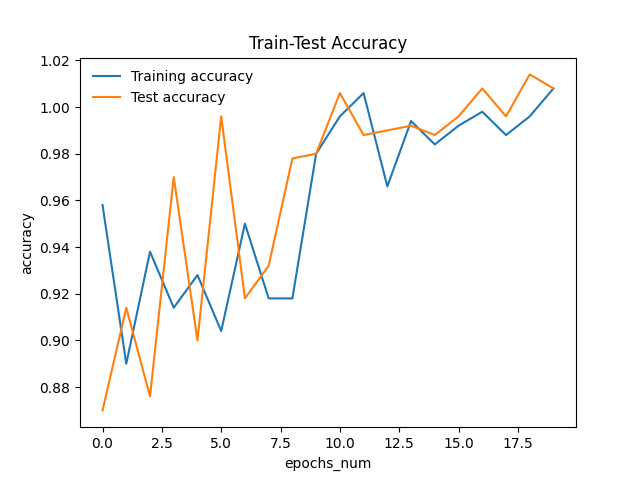
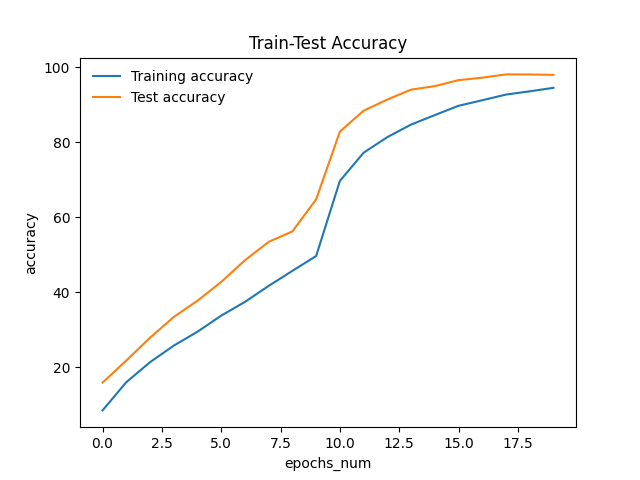
new margin loss

diff --git a/modules/margin_loss.py b/modules/margin_loss.py
@@ -1,0 +1,46 @@
+import math
+
+import torch
+import torch.nn.functional as F
+from torch import nn
+from torch.nn import Parameter
+
+
+class ArcFaceLoss(nn.Module):
+    def __init__(self, num_classes, m=0.5, s=64, easy_margin=False, embedding_size=512):
+        super(ArcFaceLoss, self).__init__()
+
+        self.weight = Parameter(torch.FloatTensor(num_classes, embedding_size))
+        # num_classes Total number of face classifications in the training set
+        # emb_size eigenvector length
+        nn.init.xavier_uniform_(self.weight)
+        # Use uniform distribution to initialize weight
+
+        self.easy_margin = easy_margin
+        self.m = m
+        #  0.5 in the formula
+        self.s = s
+        # radius 64 s in the formula
+
+        self.cos_m = math.cos(self.m)
+        self.sin_m = math.sin(self.m)
+        # cos and sin
+        self.th = math.cos(math.pi - self.m)
+        # threshold, avoid theta + m >= pi
+        self.mm = math.sin(math.pi - self.m) * self.m
+
+    def forward(self, input, label):
+        x = F.normalize(input)
+        W = F.normalize(self.weight)
+        cosine = F.linear(x, W)
+        sine = torch.sqrt(1.0 - torch.pow(cosine, 2))
+        phi = cosine * self.cos_m - sine * self.sin_m
+        if self.easy_margin:
+            phi = torch.where(cosine > 0, phi, cosine)
+        else:
+            phi = torch.where(cosine > self.th, phi, cosine - self.mm)
+        one_hot = torch.zeros(cosine.size(), device='cuda:0')
+        one_hot.scatter_(1, label.view(-1, 1).long(), 1)
+        output = (one_hot * phi) + ((1.0 - one_hot) * cosine)
+        output *= self.s
+        return output

diff --git a/main.py b/main.py
@@ -63,9 +63,9 @@ def main_fun():
     model.fc = nn.Linear(2048, emb_size)
     resnet50 = mw.ModelWrapper(data_loaders=dl, data_sets=ds, epochs_num=20,
                                model=model,
-                               loss_fun=losses.ArcFaceLoss(num_classes=100, embedding_size=emb_size,
-                                                           margin=85.8, scale=24).to(torch.device('cuda')),
-                               learning_rate=3e-2)
+                               #loss_fun=losses.ArcFaceLoss(num_classes=100, embedding_size=emb_size,
+                               #                            margin=85.8, scale=24).to(torch.device('cuda')),
+                               learning_rate=3e-3)
     train_accuracies, test_accuracies, train_losses, test_losses = resnet50.train_it()
 
     #vgg19 = mw.ModelWrapper(data_loaders=dl, data_sets=ds, epochs_num=20, model=models.vgg19(weights=None))

diff --git a/model_wrappers/ModelWrapper.py b/model_wrappers/ModelWrapper.py
@@ -61,6 +61,8 @@ class ModelWrapper:
 
                         _, predictions = torch.max(outputs, 1)
                         loss_value += loss.item()
+                        if epoch == 10:
+                            print(epoch)
                         corrects_count += torch.sum(predictions == labels.data)
                         if batch_index % 20 == 0:
                             print(
